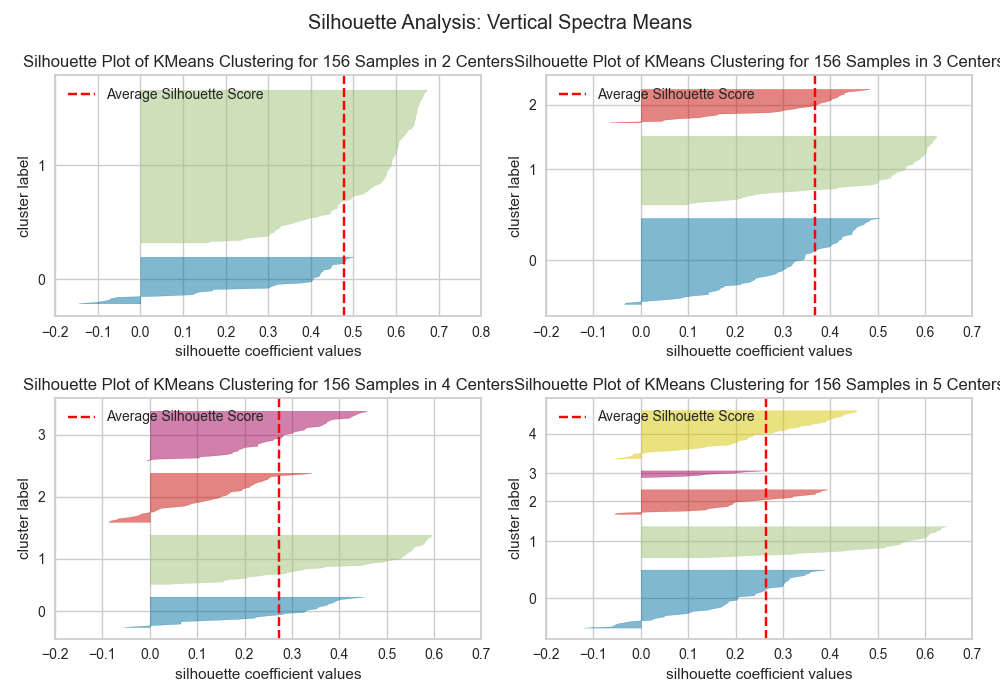
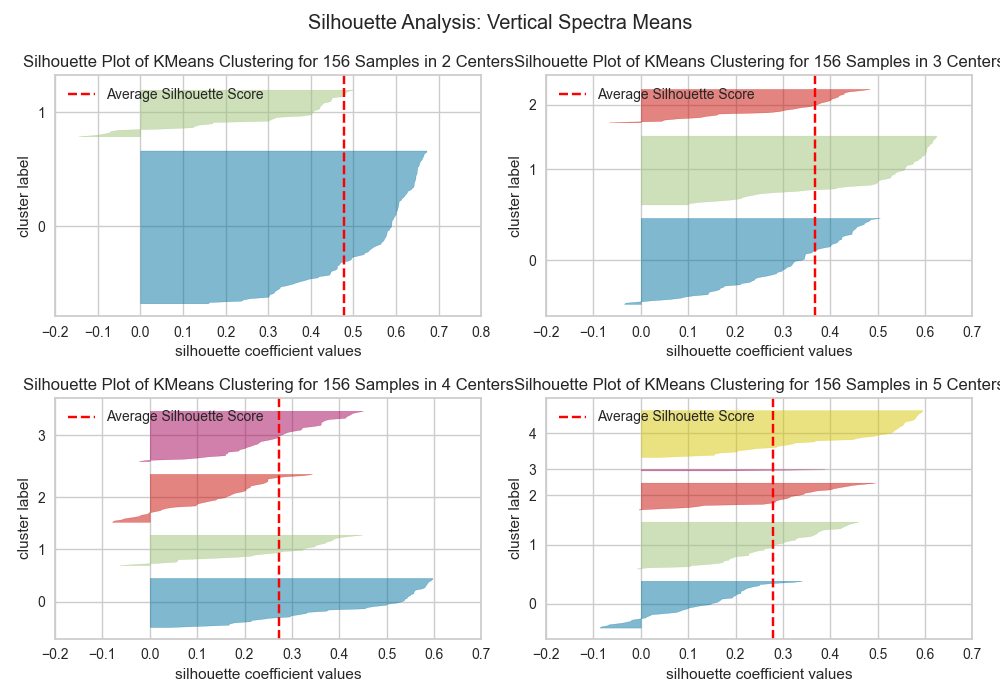
feat: implement dynamic K value selection for clustering and enhance reproducibility with global seed settings

diff --git a/main.py b/main.py
@@ -20,12 +20,27 @@ Como executar:
     python main.py
 """
 
+import os
+import random
+import numpy as np
+import tensorflow as tf
+
 import config
 from data_loader import load_pga_data, load_psa_data, get_common_records, get_psa_station_earthquake_ids
 from preprocessing import split_train_test_by_earthquake, create_features, remove_outliers
 from clustering import split_psa_columns, calculate_psa_means, generate_clusters, add_clusters
 
+def set_global_seeds(seed: int):
+    """Define as sementes globais para garantir reprodutibilidade (Determinismo)."""
+    os.environ['PYTHONHASHSEED'] = str(seed)
+    os.environ['TF_DETERMINISTIC_OPS'] = '1'
+    os.environ['TF_CUDNN_DETERMINISTIC'] = '1'
+    random.seed(seed)
+    np.random.seed(seed)
+    tf.random.set_seed(seed)
+
 def main():
+    set_global_seeds(config.RANDOM_STATE)
     print("1. Carregando os dados...")
     df_pga = load_pga_data(config.RAW_EARTHQUAKES_PGA_PATH)
     df_psa = load_psa_data(config.RAW_EARTHQUAKES_PSA_PATH)
@@ -107,13 +122,14 @@ def main():
         'spectral_vert_means': 'clusters_spectral_vert_means'
     }
     
-    print("   -> Gerando e atribuindo clusters (KMeans k=4)...")
+    print("   -> Gerando e atribuindo clusters (KMeans com K dinâmico)...")
     for mean_key, cluster_col in cluster_mapping.items():
-        print(f"      - Processando '{cluster_col}'...")
+        k_val = config.OPTIMAL_K_VALUES.get(mean_key, 4)
+        print(f"      - Processando '{cluster_col}' com K={k_val}...")
         clusters_dict = generate_clusters(
             train_means[mean_key], 
             test_means[mean_key], 
-            k=4, 
+            k=k_val, 
             random_state=config.RANDOM_STATE
         )
         df_train_clean, lost_train = add_clusters(df_train_clean, clusters_dict, cluster_col)

diff --git a/modeling.py b/modeling.py
@@ -67,7 +67,7 @@ def build_elasticnet(preprocessor: ColumnTransformer, alpha: float = 0.1, l1_rat
         ('preprocessor', preprocessor),
         ('poly', PolynomialFeatures(degree=degree, include_bias=include_bias)),
         ('model', TransformedTargetRegressor(
-            regressor=ElasticNet(alpha=alpha, l1_ratio=l1_ratio, max_iter=max_iter),
+            regressor=ElasticNet(alpha=alpha, l1_ratio=l1_ratio, max_iter=max_iter, random_state=42),
             func=np.log,
             inverse_func=np.exp
         ))
@@ -131,7 +131,7 @@ def build_dnn_model(n_hidden_layers: int, n_neurons: int,
     """
     model = Sequential()
     for _ in range(n_hidden_layers):
-        model.add(Dense(n_neurons, activation=activation, kernel_initializer="he_normal"))
+        model.add(Dense(n_neurons, activation=activation, kernel_initializer=tf.keras.initializers.HeNormal(seed=42)))
         model.add(BatchNormalization())
         if dropout_rate > 0.0:
             model.add(Dropout(dropout_rate))
@@ -276,7 +276,7 @@ def tune_dnn(X_train, y_train, X_valid, y_valid, preprocessor: ColumnTransformer
         model.add(tf.keras.layers.Flatten())
 
         for _ in range(n_hidden):
-            model.add(tf.keras.layers.Dense(n_neurons, activation=activation_function, kernel_initializer="he_normal"))
+            model.add(tf.keras.layers.Dense(n_neurons, activation=activation_function, kernel_initializer=tf.keras.initializers.HeNormal(seed=42)))
             model.add(tf.keras.layers.BatchNormalization())
             model.add(tf.keras.layers.Dropout(dropout_rate))
 

diff --git a/config.py b/config.py
@@ -27,3 +27,11 @@ CLUSTER_COLUMNS = [
     'clusters_spectral_coefs', 'clusters_spectral_means', 
     'clusters_spectral_horiz_means', 'clusters_spectral_vert_means'
 ]
+
+# Valores otimizados de K (Método do Cotovelo) para cada tipo de espectro
+OPTIMAL_K_VALUES = {
+    'spectral_coefs': 5,
+    'spectral_means': 4,
+    'spectral_horiz_means': 4,
+    'spectral_vert_means': 3
+}

diff --git a/aprimoramentos.md b/aprimoramentos.md
@@ -2,13 +2,6 @@
 
 Este documento lista oportunidades arquiteturais, estatísticas e de modelagem para aprimorar os resultados (redução de RMSE e aumento de R²) do projeto de previsão de Peak Ground Acceleration (PGA) utilizando clusterização de dados de PSA.
 
-## 1. Transformação da Variável Alvo (Target)
-* **Problema:** A aceleração de pico (PGA) geralmente segue uma distribuição log-normal, variando em várias ordens de grandeza. O treinamento com os valores brutos faz com que os modelos de Machine Learning foquem excessivamente nos valores absolutos extremos e permite previsões de valores negativos (o que é fisicamente impossível).
-* **Solução:** Treinar os modelos para prever o **logaritmo natural do PGA** (`np.log(PGA)`). Equações tradicionais de previsão de movimento do solo (GMPEs) baseiam-se em `ln(PGA)`.
-* **Como implementar:** Usar o `TransformedTargetRegressor` do Scikit-Learn. Ele aplica o logaritmo no treinamento de forma transparente e aplica a exponencial inversa (`np.exp`) na inferência.
-
-
-## 2. Uso de k especifico por tecnica de preprocessamento de clustering
 
 ## 3. busca de hiperparametros usando atributos de clusterização
 
